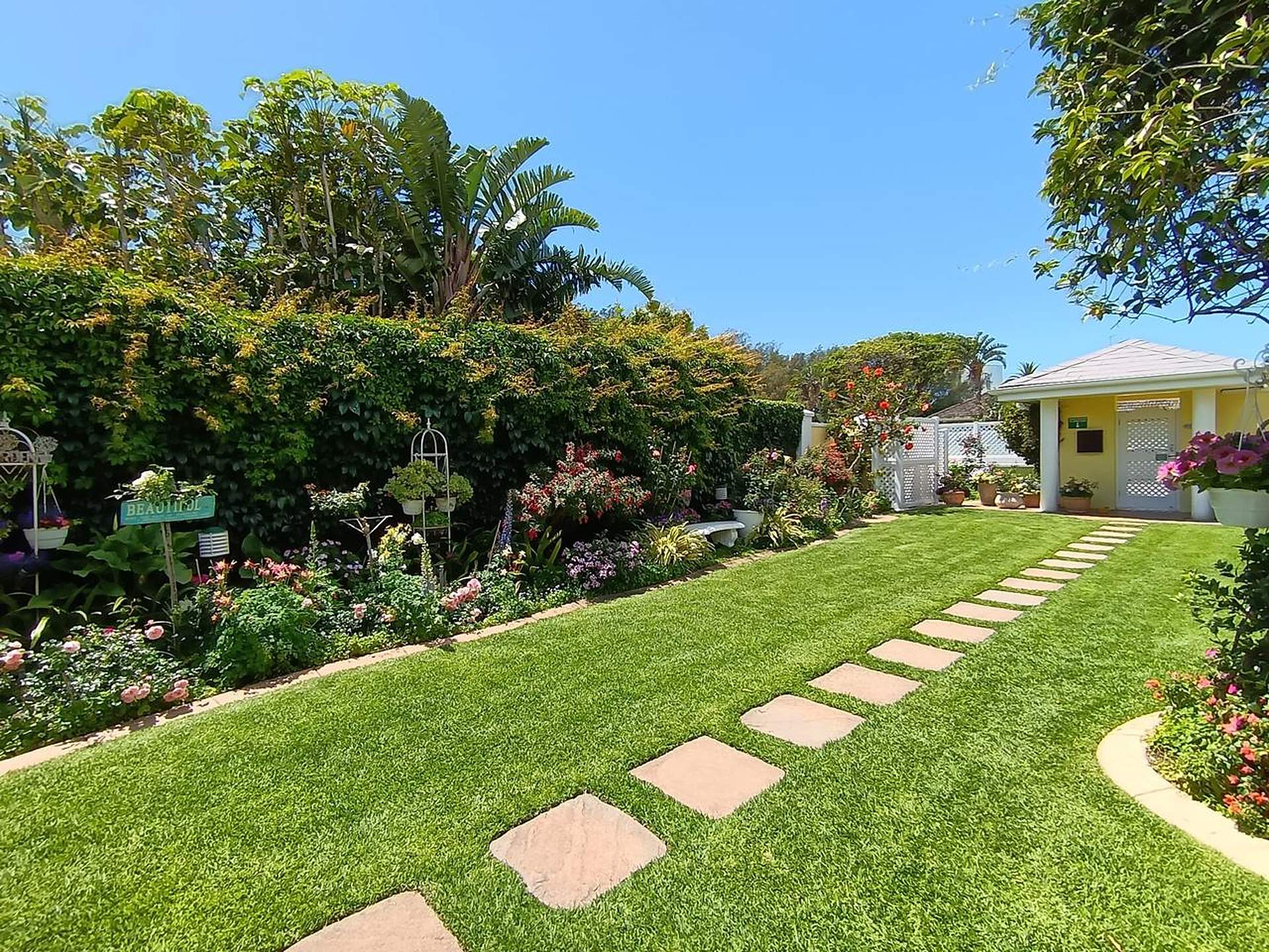
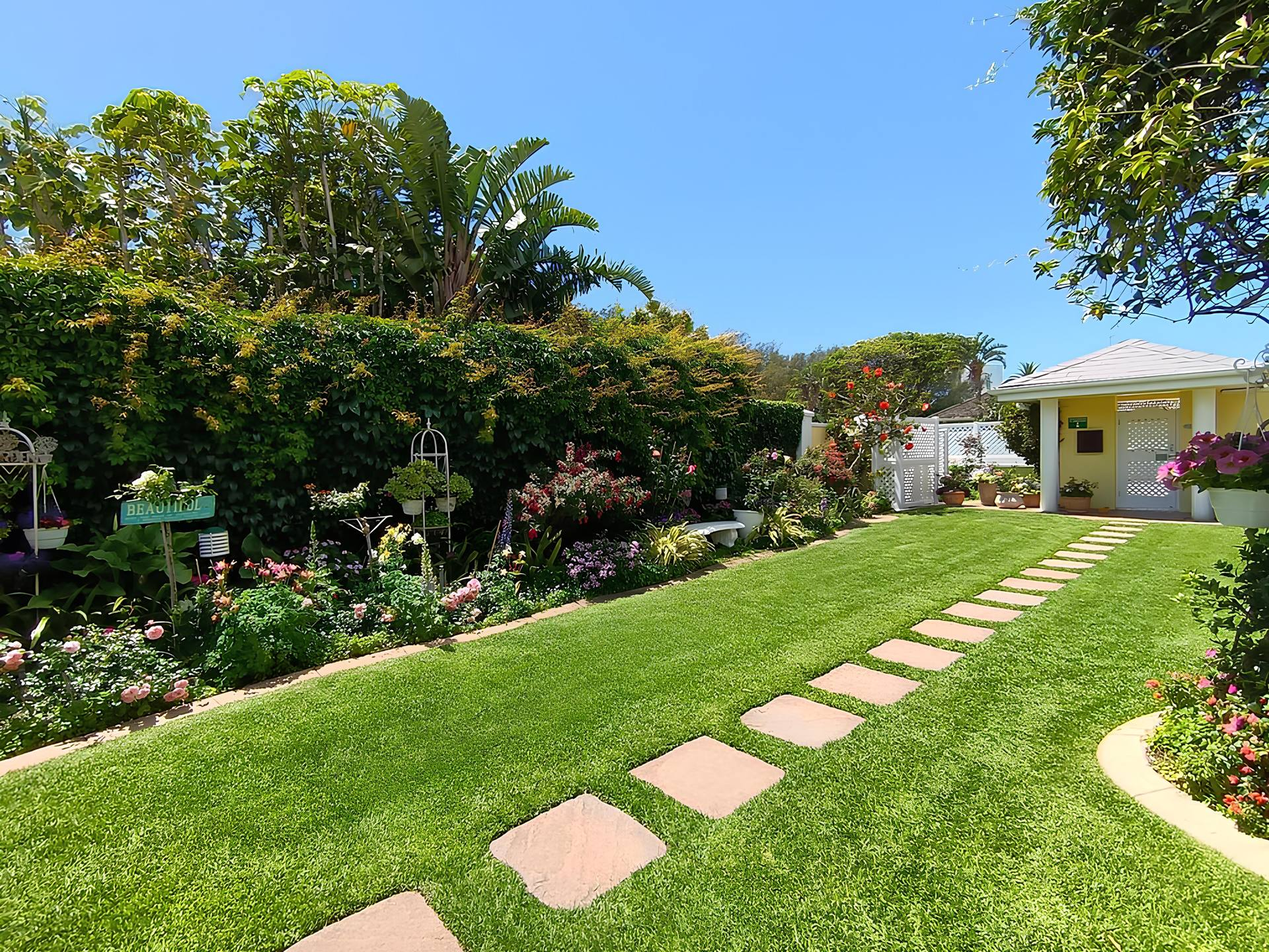
Add files via upload

diff --git a/CLAUDE.md b/CLAUDE.md
@@ -1,0 +1,90 @@
+# On The Bay B&B — project notes for Claude
+
+Static site for a bed & breakfast in Summerstrand, Gqeberha. No build step, no
+framework, no server-side code, no package.json — `index.html` is the whole
+site. See README.md for the human-facing overview (hosting, the callback
+form, design notes). This file is context a fresh session won't get from the
+code alone.
+
+## Image status — what's real, what's still placeholder
+
+The site launched with generic soft-gradient placeholder images (each has its
+filename printed faintly in the corner — that's the tell). Progress replacing
+them:
+
+**Done (real photos):**
+- `images/hero.jpg` — real garden photo, downsampled from a 5120×3840
+  original (`images/hero-original.jpeg`, kept as archival source — not
+  referenced by the site). Built with Lanczos resampling straight from the
+  full-res original, ~1920×1440, ~700KB. If it ever needs rebuilding
+  (different crop, different size), re-derive from `hero-original.jpeg`, not
+  from a re-export of the current `hero.jpg` — avoid compounding
+  resample/recompress passes.
+- All six room cards — see "Room photo convention" below.
+
+**Still placeholder, needs real photos:** `garden.jpg`, `breakfast.jpg`,
+`braai.jpg`, `beach.jpg`, `gallery-1.jpg` … `gallery-6.jpg`, `og-image.jpg`.
+Same swap-in-place approach as the README describes: replace the file,
+keep the filename, no HTML/CSS changes needed for those.
+
+## Room photo convention
+
+Each room card in the "Rooms" section (`index.html`, `#rooms`) uses a
+`.room-img-btn` button, not a bare `<img>`:
+
+```html
+<div class="room-img">
+  <button class="room-img-btn" type="button" data-alt="King room with sofa bed"
+          data-photos='["images/rooms/king-sofa/1.jpg","images/rooms/king-sofa/2.jpg",...]'>
+    <img src="images/rooms/king-sofa/1.jpg" alt="King room with sofa bed" loading="lazy">
+    <span class="room-img-count">3 photos</span>
+  </button>
+</div>
+```
+
+- Photos live under `images/rooms/<slug>/1.jpg, 2.jpg, ...` — one folder per
+  room type, numbered in display order.
+- `data-photos` is a JSON array read by `script.js`; clicking the button
+  opens the shared lightbox (`#lb`) scoped to just that room's photos, with
+  prev/next arrows and a counter. The main gallery grid (`#gallery`) uses the
+  same lightbox mechanism but as one shared set across all six grid photos.
+- Omit the `.room-img-count` span for a room with only one photo (see the
+  family unit card) — the lightbox still opens, just without nav controls.
+- Current slugs → room type, for reference:
+  `king-sofa`, `twin`, `family-unit`, `garden-double`, `self-catering`,
+  `compact-single`. These were matched to the six listed room types (King
+  with sofa bed, Twin with extra single, Two-bedroom family unit, Garden
+  double, Self-catering room, Compact single) by asking the property owner
+  to identify each folder from a description — not guessed from the photos.
+
+## Worth flagging to the owner
+
+Room copy vs. photos don't fully line up and are worth a quick owner check
+before launch (separate from the four items already listed in the README):
+- The **Garden double** card's copy doesn't mention a kitchenette, but its
+  photos (`images/rooms/garden-double/`) show a full kitchenette with sink
+  and stovetop.
+- The **Self-catering room** card's photos (`images/rooms/self-catering/`)
+  show a much smaller kitchenette nook (microwave only) than the garden
+  double's — worth confirming the self-catering description still fits.
+
+## Photo processing conventions
+
+When resizing/compressing photos for this site (sips or PIL, either is
+fine — no ImageMagick installed):
+- Downsample from the highest-resolution source available; don't re-derive
+  from an already-downsampled or already-upscaled copy.
+- Room photos: capped at 1100px on the long edge, sips `formatOptions
+  normal`, landing around 40–115KB each — that's the target range for
+  anything in `images/rooms/`.
+- Hero/wide banner shots run heavier (~700KB) since they're full-bleed and
+  high-detail (foliage/grass compress poorly) — that's an accepted
+  trade-off for the LCP image, not a bug.
+- `sips -Z <N>` scales to fit *and* upscales if the source is smaller than
+  `<N>` — check source dimensions first, or it'll blow up file size for
+  no quality gain.
+
+## Deployment
+
+No CI, no build. Static host of any kind (Netlify, Cloudflare Pages,
+GitHub Pages, plain cPanel). See README.md § Hosting.

diff --git a/README.md b/README.md
@@ -17,20 +17,21 @@ images/         all photography
 
 ## 1. Swap in the real photos
 
-The `images/` folder currently holds **soft colour placeholders**, each with its filename
-printed faintly in the corner. Replace each file with a real photo, keeping the **same
-filename**, and nothing else needs to change.
+The `images/` folder started out with **soft colour placeholders**, each with its filename
+printed faintly in the corner. Two are done; the rest still need real photos dropped in.
+
+**Done:**
+- `hero.jpg` — real garden photo.
+- The six room cards — each now has its own folder of real photos under
+  `images/rooms/<room>/1.jpg, 2.jpg, ...` (see CLAUDE.md for the convention and the
+  slug-to-room mapping). Clicking a room photo opens a lightbox with all of that room's
+  shots.
+
+**Still placeholder — replace the file, keep the filename, nothing else changes:**
 
 | File | What goes here | Suggested size |
 |---|---|---|
-| `hero.jpg` | The strongest wide shot — garden or house exterior | 2000 × 1250 |
 | `garden.jpg` | The rose garden, **portrait crop** (it renders tall) | 900 × 1200 |
-| `room-king.jpg` | King room with sofa bed | 1200 × 800 |
-| `room-twin.jpg` | Twin room | 1200 × 800 |
-| `room-family.jpg` | Two-bedroom family unit | 1200 × 800 |
-| `room-double.jpg` | Garden double | 1200 × 800 |
-| `room-selfcater.jpg` | Self-catering room | 1200 × 800 |
-| `room-compact.jpg` | Compact single | 1200 × 800 |
 | `breakfast.jpg` | Breakfast / dining | 1200 × 900 |
 | `braai.jpg` | Braai and entertainment area | 1200 × 900 |
 | `beach.jpg` | The bay / beachfront, **wide crop** (21:9 band) | 1600 × 900 |
@@ -42,6 +43,10 @@ landscape shots in the wide slots.
 
 Save as JPEG at roughly 80% quality and keep each file under about 400 KB. The existing
 photos on the old site can be pulled straight out of the browser (right-click → Save image).
+
+To add more photos to an existing room, drop them into that room's `images/rooms/<room>/`
+folder as the next number and add the path to that room's `data-photos` list in
+`index.html` — see CLAUDE.md.
 
 ---
 
@@ -70,9 +75,12 @@ site is hosted on a different domain.
 I built this from the copy and details on the current site plus their public listings.
 Four items are worth a quick check:
 
-- **Rooms 4, 5 and 6** — "Garden double", "Self-catering room" and "Compact single" are
-  described from the general room copy rather than a per-room page. Confirm the real names,
-  bed configurations and which rooms have kitchenettes.
+- **Room copy vs. the real photos** — which photo folder belongs to which room type has
+  been confirmed with the owner, but the written descriptions haven't been checked against
+  the photos themselves. In particular: the Garden double's copy doesn't mention a
+  kitchenette but its photos show a full one (sink + stovetop); the Self-catering room's
+  photos show a smaller kitchenette nook than that. Worth a quick owner check — see
+  CLAUDE.md for detail.
 - **Check-in from 14:00, check-out by 10:00** — taken from their booking listings, not
   their own site.
 - **Breakfast at R110 per person**, not served 16 December – 7 January.
